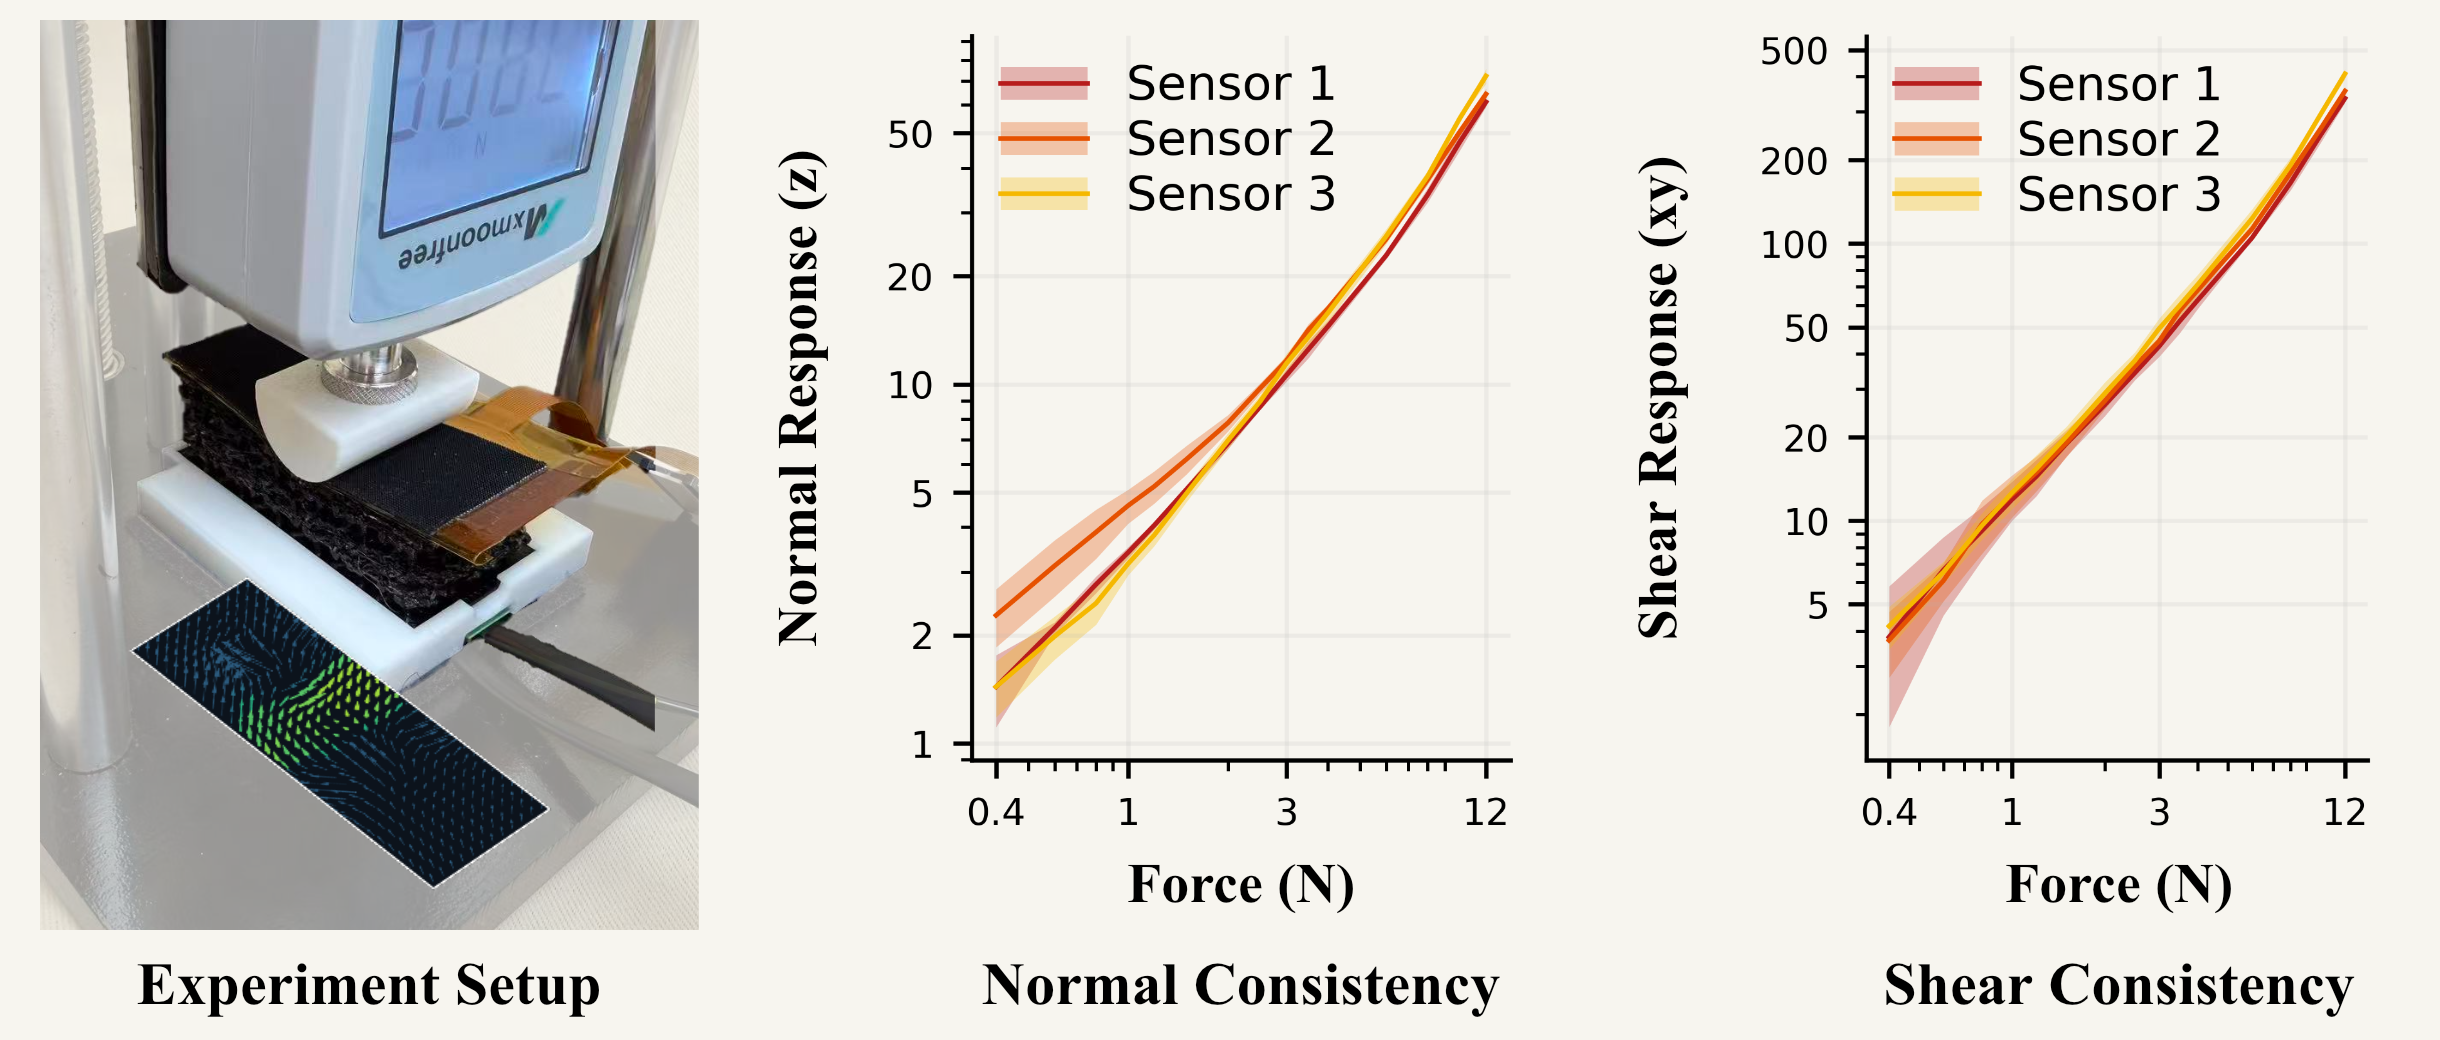
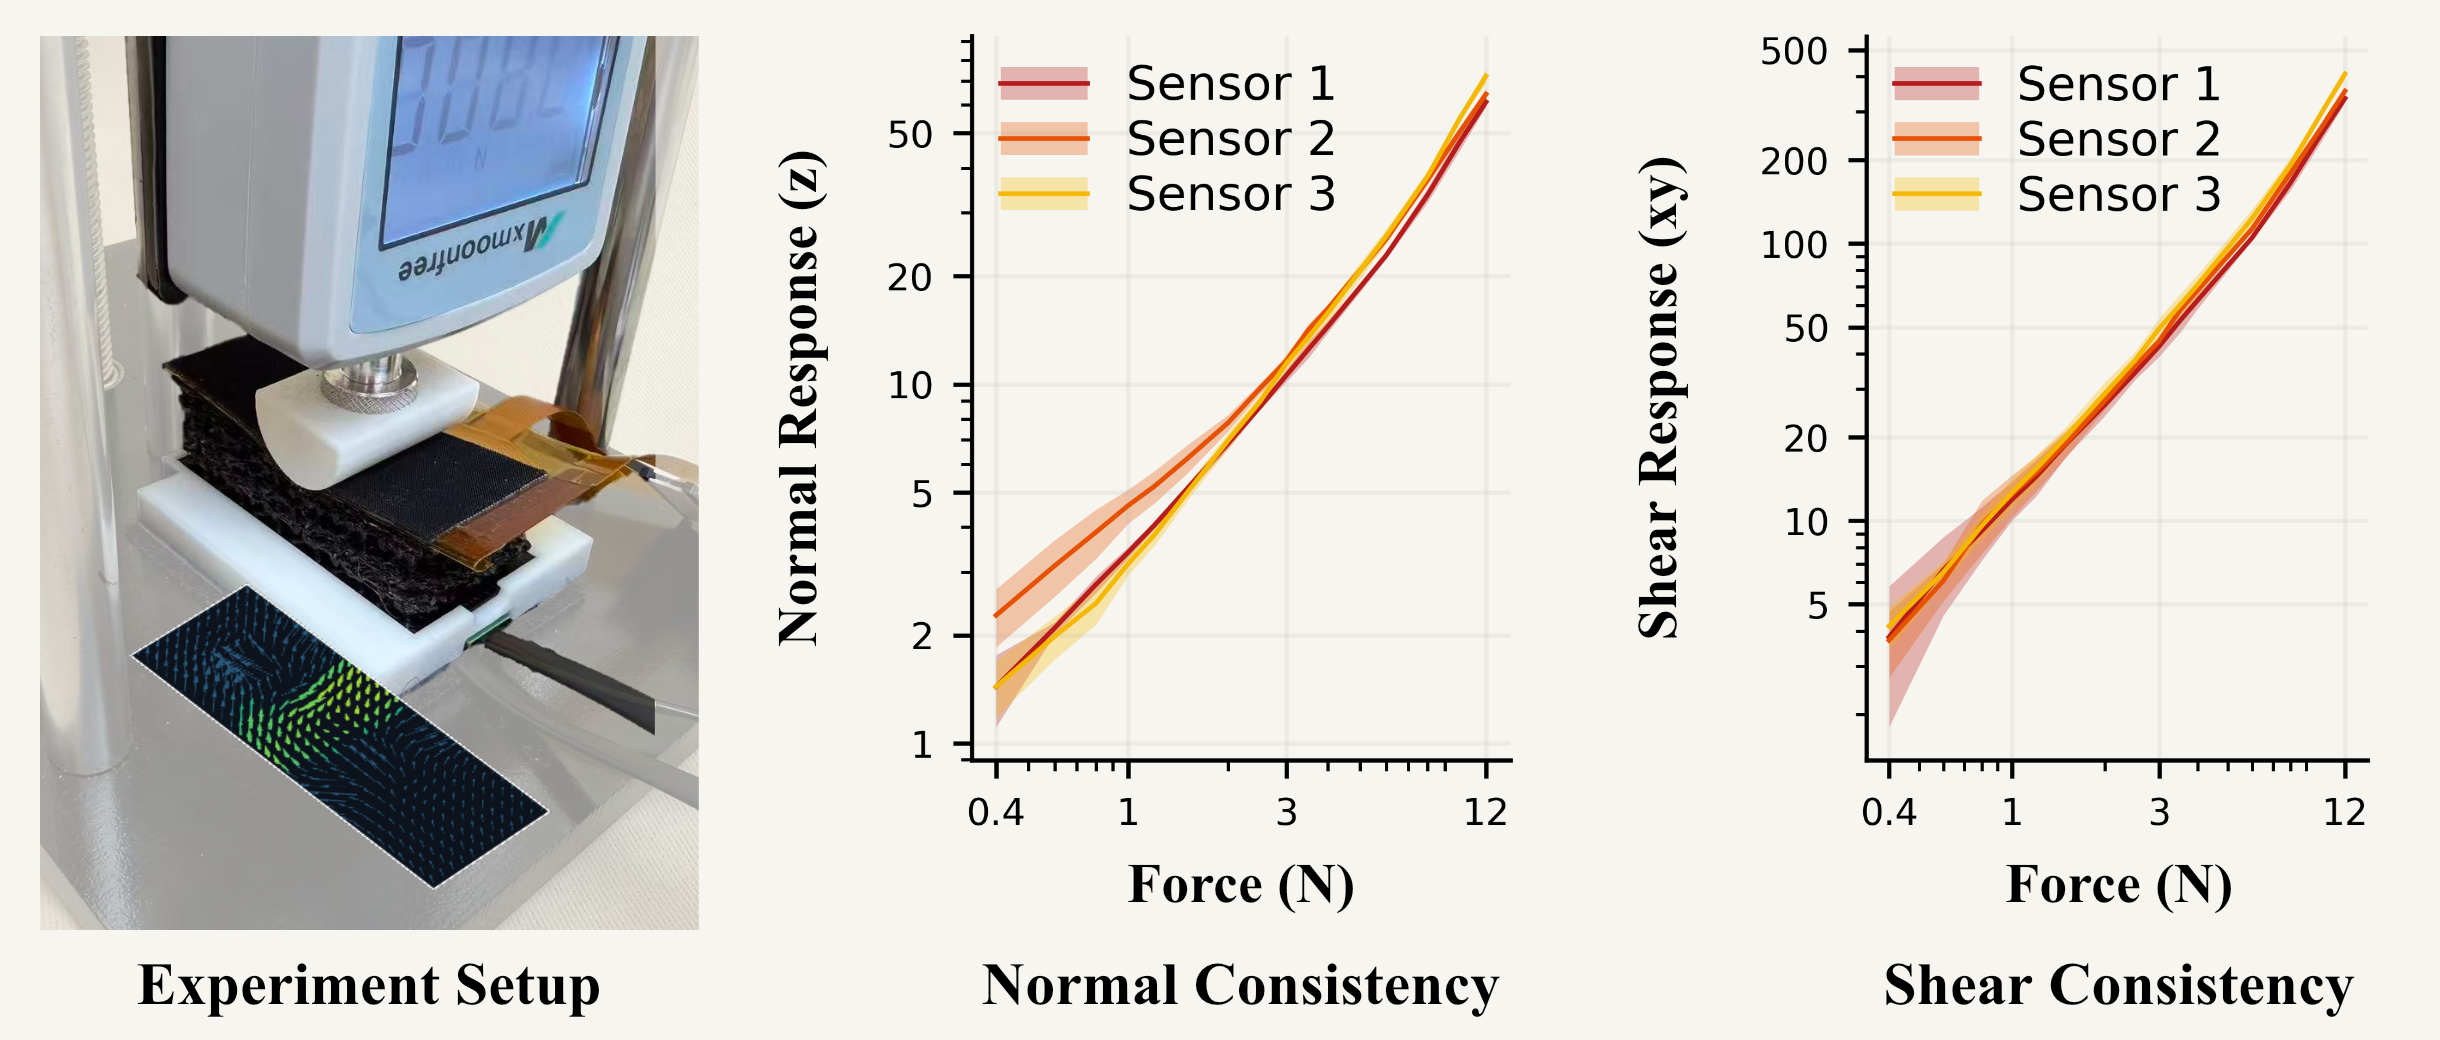
Align experiment photo with plot top edges

Changed region(s): [[0.0, 0.0, 0.2803, 0.8308]]

diff --git a/index.html b/index.html
@@ -149,7 +149,7 @@
 
 
   <section id="characterization" class="section-shell characterization-section" aria-label="Sensor characterization">
-    <figure class="signal-figure"><img src="assets/images/signal-construction.png?v=arxiv-figure-v5" alt="Indentation experiment setup and normal and shear response curves comparing three PanoTac sensors." loading="lazy"><figcaption>Sensor characterization: experimental setup and consistent normal and shear responses across three sensors.</figcaption></figure>
+    <figure class="signal-figure"><img src="assets/images/signal-construction.png?v=arxiv-figure-v6" alt="Indentation experiment setup and normal and shear response curves comparing three PanoTac sensors." loading="lazy"><figcaption>Sensor characterization: experimental setup and consistent normal and shear responses across three sensors.</figcaption></figure>
   </section>
 </main>
 <footer class="site-footer section-shell"><a class="wordmark" href="#intro">PanoTac<span aria-hidden="true">.</span></a><p>Anonymous Authors</p><a class="text-link" href="#intro">Back to top ↑</a></footer>
